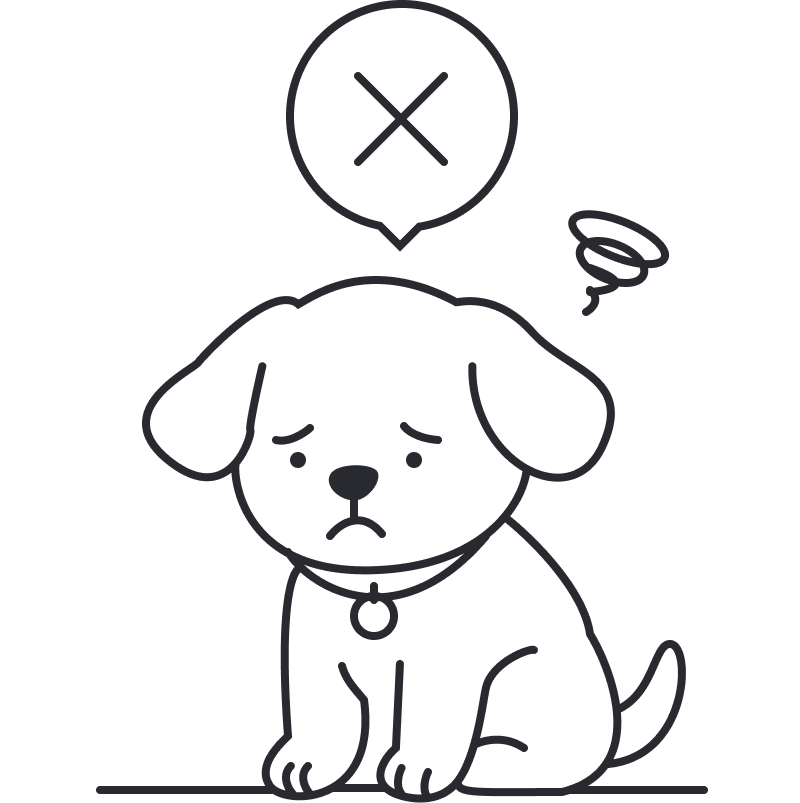
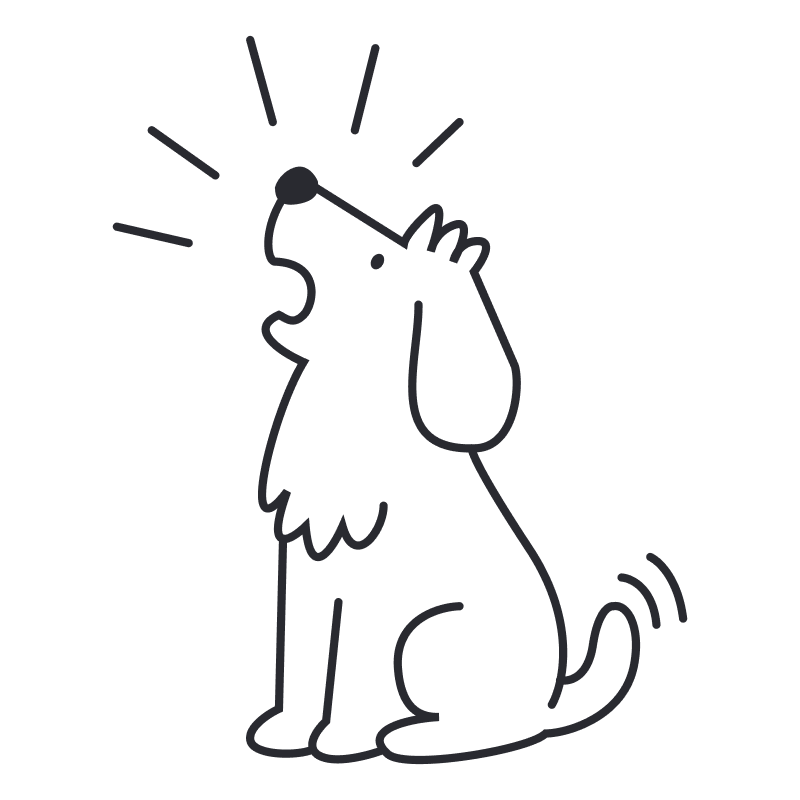
chore: 원장 제출 성공/오류 일러스트 교체

diff --git a/apps/knockdog/src/views/role-conversion/complete/ui/RoleConversionResultPage.tsx b/apps/knockdog/src/views/role-conversion/complete/ui/RoleConversionResultPage.tsx
@@ -21,7 +21,7 @@ function RoleConversionResultPage() {
 
       <div className='flex w-full flex-col items-center'>
         <div className='flex justify-center py-2'>
-          <Image src={content.imageSrc} alt={content.imageAlt} width={200} height={200} />
+          <Image src={content.imageSrc} alt={content.imageAlt} width={180} height={180} />
         </div>
 
         <div className='flex flex-col items-center gap-1 px-4 py-2 text-center'>
